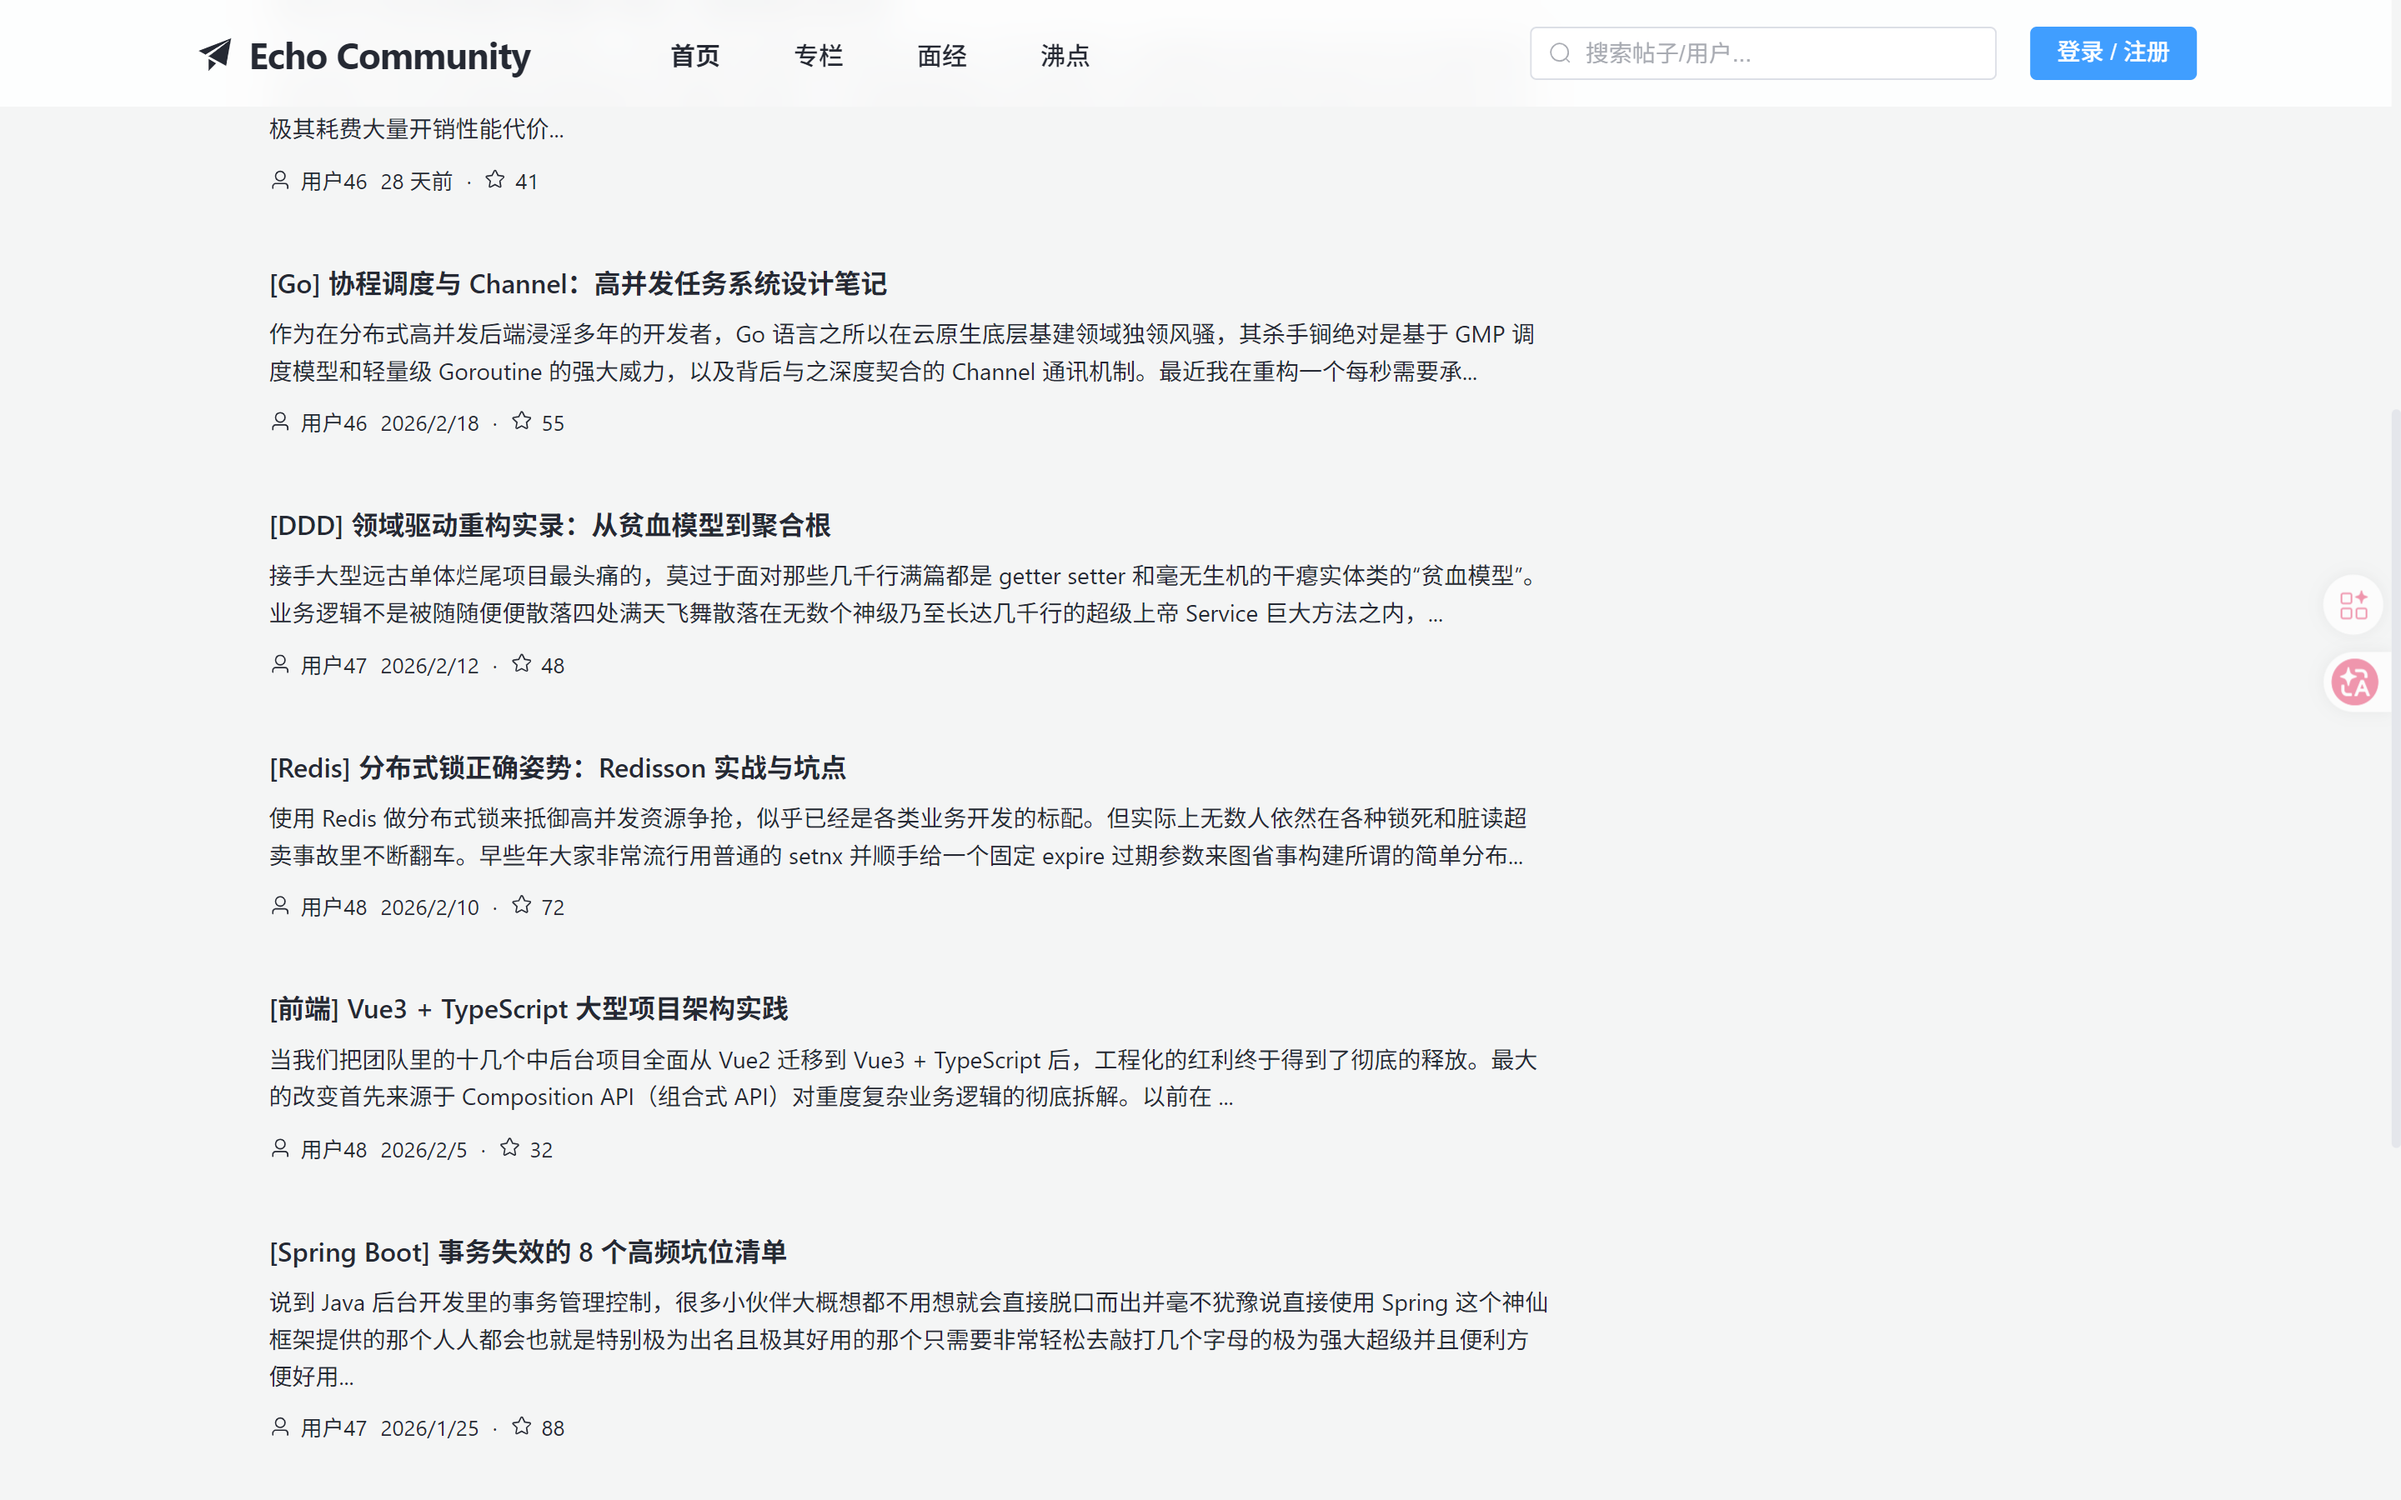
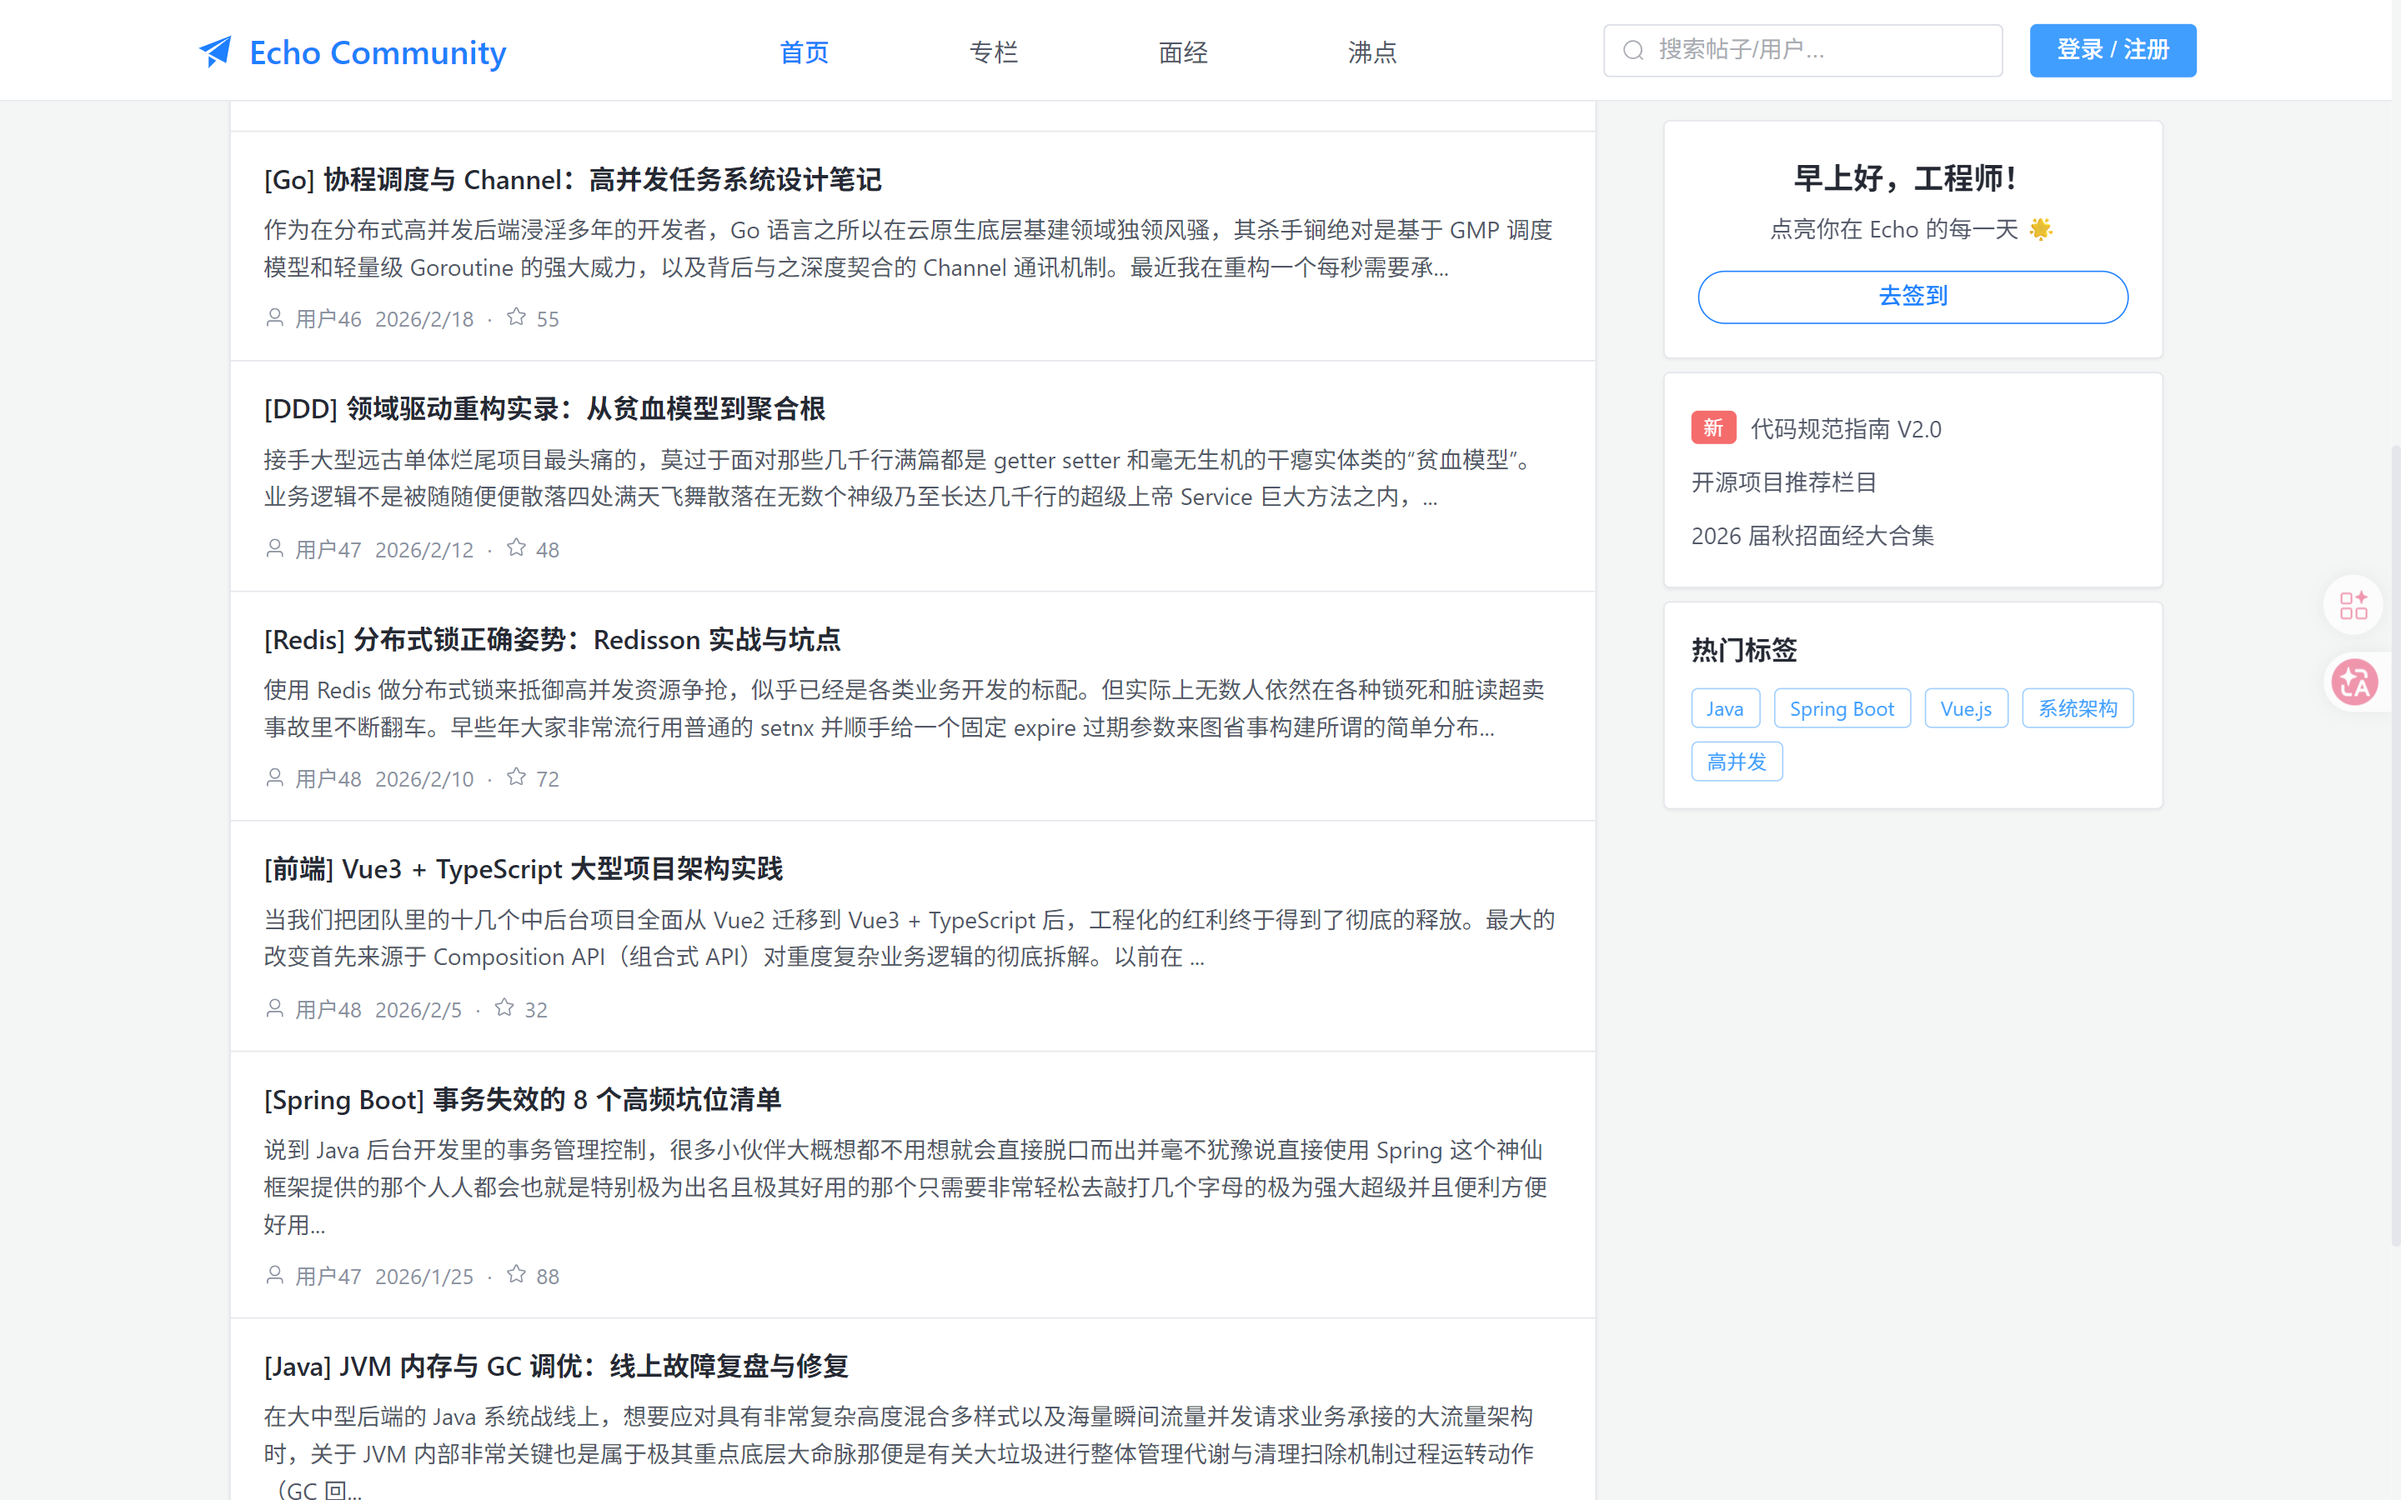
fix: restore original sidebar card borders, add sidebar sticky positioning

diff --git a/frontend/src/App.vue b/frontend/src/App.vue
@@ -143,57 +143,61 @@ watch(() => userStore.isLoggedIn, (val) => {
 </template>
 
 <style>
-/* 与 style.css 中的变量保持同步并删除此处冗余定义 */
+/* ──── CSS Variables ──── */
+:root {
+  color-scheme: light;
+  --bg-page: #f4f5f5;
+  --card-bg: #fff;
+  --border-color: #e4e6eb;
+  --text-primary: #252933;
+  --text-secondary: #515767;
+  --text-tertiary: #8a919f;
+  --juejin-blue: #1e80ff;
+}
+body {
+  margin: 0;
+  background-color: var(--bg-page);
+  color: var(--text-primary);
+  font-family: -apple-system, BlinkMacSystemFont, 'Segoe UI', Roboto, sans-serif;
+}
+a { text-decoration: none; color: inherit; }
 
 /* Layout */
 .main-container {
   max-width: 1200px;
   margin: 0 auto;
-  padding: 24px 20px;
+  padding: 0 20px;
   display: flex;
-  gap: 24px;
+  gap: 20px;
 }
 .content-area { flex: 1; min-width: 0; }
-.sidebar-area { width: 300px; flex-shrink: 0; }
+.sidebar-area { width: 300px; flex-shrink: 0; position: sticky; top: 72px; align-self: flex-start; }
 
-/* Panel (在全局 style.css 中已增加平滑卡片样式) */
+/* Panel */
 .echo-panel {
   background: var(--card-bg);
-  border-radius: var(--radius-md);
-  margin-bottom: 20px;
+  border-radius: 4px;
+  margin-bottom: 8px;
   border: 1px solid var(--border-color);
-  box-shadow: var(--shadow-sm);
-  transition: box-shadow var(--transition-normal), transform var(--transition-normal);
-}
-.echo-panel:hover {
-  box-shadow: var(--shadow-hover);
-  transform: translateY(-2px);
 }
 
 /* List Item */
 .list-item {
-  padding: 20px 24px;
+  padding: 16px 20px;
   border-bottom: 1px solid var(--border-color);
-  transition: background-color var(--transition-fast);
 }
 .list-item:last-child { border-bottom: none; }
-.list-item:hover { background: var(--juejin-blue-light); }
+.list-item:hover { background: rgba(30, 128, 255, 0.03); }
 
 /* ──── Header ──── */
 .main-header {
   position: sticky;
   top: 0;
   z-index: 1000;
-  background: rgba(255, 255, 255, 0.85); /* 毛玻璃背景 */
-  backdrop-filter: blur(12px);
-  -webkit-backdrop-filter: blur(12px);
+  background: var(--card-bg);
   border-bottom: 1px solid var(--border-color);
-  height: 64px;
+  height: 60px;
 }
-html.dark .main-header {
-  background: rgba(30, 41, 59, 0.85);
-}
-
 .header-inner {
   max-width: 1200px;
   margin: 0 auto;
@@ -204,43 +208,26 @@ html.dark .main-header {
   justify-content: space-between;
 }
 .header-left { display: flex; align-items: center; flex: 1; }
-.header-right { display: flex; align-items: center; gap: 20px; flex-shrink: 0; }
-
+.header-right { display: flex; align-items: center; gap: 16px; flex-shrink: 0; }
 .logo {
   display: flex; align-items: center; gap: 8px;
-  font-size: 22px; font-weight: 700; color: var(--juejin-blue);
+  font-size: 20px; font-weight: 600; color: var(--juejin-blue);
   cursor: pointer; user-select: none;
   flex-shrink: 0;
-  margin-right: 48px;
-  letter-spacing: -0.5px;
+  margin-right: 40px;
 }
-
-.main-nav { display: flex; flex: 1; align-items: center; gap: 12px; margin: 0 20px; }
+.main-nav { display: flex; flex: 1; align-items: center; justify-content: space-evenly; margin: 0 40px; }
 .nav-item {
   font-size: 15px; color: var(--text-secondary);
-  padding: 8px 16px; transition: all var(--transition-fast);
+  padding: 4px 0; transition: color 0.2s;
   white-space: nowrap;
-  border-radius: var(--radius-sm);
-  font-weight: 500;
 }
-.nav-item:hover { 
-  color: var(--juejin-blue); 
-  background: var(--juejin-blue-light); 
-}
-.nav-item.router-link-active { 
-  color: var(--juejin-blue); 
-  font-weight: 600; 
-  background: var(--juejin-blue-light);
-}
+.nav-item:hover, .nav-item.router-link-active { color: var(--juejin-blue); font-weight: 500; }
 
-.header-search { width: 280px; transition: width var(--transition-normal); box-shadow: var(--shadow-sm); border-radius: 100px; }
-.header-search :deep(.el-input__wrapper) { border-radius: 100px; padding-left: 16px; }
-.write-btn { border-radius: 100px; padding: 0 24px; font-weight: 600; box-shadow: var(--shadow-md); transition: transform var(--transition-fast), box-shadow var(--transition-fast); }
-.write-btn:hover { transform: translateY(-1px); box-shadow: var(--shadow-lg); }
-
-.action-icons { display: flex; align-items: center; gap: 16px; }
-.action-icon { cursor: pointer; color: var(--text-secondary); transition: color var(--transition-fast), transform var(--transition-fast); }
-.action-icon:hover { color: var(--juejin-blue); transform: scale(1.1); }
-.header-avatar { cursor: pointer; border: 2px solid transparent; transition: border-color var(--transition-fast); }
-.header-avatar:hover { border-color: var(--juejin-blue); }
+.header-search { width: 240px; transition: width 0.3s; }
+.write-btn { border-radius: 4px; }
+.action-icons { display: flex; align-items: center; gap: 12px; }
+.action-icon { cursor: pointer; color: var(--text-secondary); transition: color 0.2s; }
+.action-icon:hover { color: var(--juejin-blue); }
+.header-avatar { cursor: pointer; }
 </style>

diff --git a/frontend/src/style.css b/frontend/src/style.css
@@ -1,43 +1,23 @@
 :root {
-  /* 主色调：更现代活泼的蓝色 */
-  --juejin-blue: #2563eb;
-  --juejin-blue-hover: #1d4ed8;
-  --juejin-blue-light: #eff6ff;
-  
-  --bg-color: #f8fafc;
-  --text-primary: #1e293b;
-  --text-secondary: #475569;
-  --text-tertiary: #94a3b8;
-  --border-color: #e2e8f0;
+  --juejin-blue: #1e80ff;
+  --juejin-blue-hover: #1171ee;
+  --bg-color: #f4f5f5;
+  --text-primary: #252933;
+  --text-secondary: #515767;
+  --text-tertiary: #8a919f;
+  --border-color: #e4e6eb;
   --card-bg: #ffffff;
   
-  /* 阴影与圆角升级 */
-  --radius-sm: 6px;
-  --radius-md: 12px;
-  --radius-lg: 16px;
-  --shadow-sm: 0 1px 2px 0 rgba(0, 0, 0, 0.05);
-  --shadow-md: 0 4px 6px -1px rgba(0, 0, 0, 0.05), 0 2px 4px -1px rgba(0, 0, 0, 0.03);
-  --shadow-lg: 0 10px 15px -3px rgba(0, 0, 0, 0.05), 0 4px 6px -2px rgba(0, 0, 0, 0.03);
-  --shadow-hover: 0 10px 25px -5px rgba(0, 0, 0, 0.08), 0 8px 10px -6px rgba(0, 0, 0, 0.04);
-  
-  --sans: "Inter", -apple-system, system-ui, "Segoe UI", Roboto, Ubuntu, Cantarell, "Noto Sans", sans-serif, BlinkMacSystemFont, "Helvetica Neue", "PingFang SC", "Hiragino Sans GB", "Microsoft YaHei", Arial;
-  --transition-fast: 0.2s cubic-bezier(0.4, 0, 0.2, 1);
-  --transition-normal: 0.3s cubic-bezier(0.4, 0, 0.2, 1);
+  --sans: -apple-system, system-ui, "Segoe UI", Roboto, Ubuntu, Cantarell, "Noto Sans", sans-serif, BlinkMacSystemFont, "Helvetica Neue", "PingFang SC", "Hiragino Sans GB", "Microsoft YaHei", Arial;
 }
 
 html.dark {
-  --bg-color: #0f172a;
-  --text-primary: #f1f5f9;
-  --text-secondary: #94a3b8;
-  --text-tertiary: #64748b;
-  --border-color: #1e293b;
-  --card-bg: #1e293b;
-  --juejin-blue: #3b82f6;
-  --juejin-blue-hover: #60a5fa;
-  --juejin-blue-light: rgba(59, 130, 246, 0.1);
-  --shadow-sm: 0 1px 2px 0 rgba(0, 0, 0, 0.3);
-  --shadow-md: 0 4px 6px -1px rgba(0, 0, 0, 0.3);
-  --shadow-hover: 0 10px 25px -5px rgba(0, 0, 0, 0.4);
+  --bg-color: #121212;
+  --text-primary: #e4e6eb;
+  --text-secondary: #a3a6ad;
+  --text-tertiary: #7a8089;
+  --border-color: #2b2b2b;
+  --card-bg: #1e1e1e;
 }
 
 body {
@@ -47,9 +27,9 @@ body {
   color: var(--text-primary);
   -webkit-font-smoothing: antialiased;
   -moz-osx-font-smoothing: grayscale;
-  transition: background-color var(--transition-normal), color var(--transition-normal);
 }
 
+/* Reset standard margins for headings/paragraphs */
 h1, h2, h3, h4, h5, h6, p {
   margin: 0;
 }
@@ -57,7 +37,6 @@ h1, h2, h3, h4, h5, h6, p {
 a {
   text-decoration: none;
   color: inherit;
-  transition: color var(--transition-fast);
 }
 
 #app {
@@ -71,19 +50,12 @@ a {
   width: 100%;
   max-width: 1200px;
   margin: 0 auto;
-  padding-top: 24px;
+  padding-top: 16px; /* Juejin style top padding */
   box-sizing: border-box;
 }
 
 .echo-panel {
   background: var(--card-bg);
-  border-radius: var(--radius-md);
-  box-shadow: var(--shadow-sm);
-  transition: box-shadow var(--transition-normal), transform var(--transition-normal);
-  border: 1px solid var(--border-color);
-}
-
-.echo-panel:hover {
-  box-shadow: var(--shadow-hover);
-  transform: translateY(-2px);
+  border-radius: 4px;
+  box-shadow: 0 1px 2px 0 rgba(0, 0, 0, 0.05);
 }
